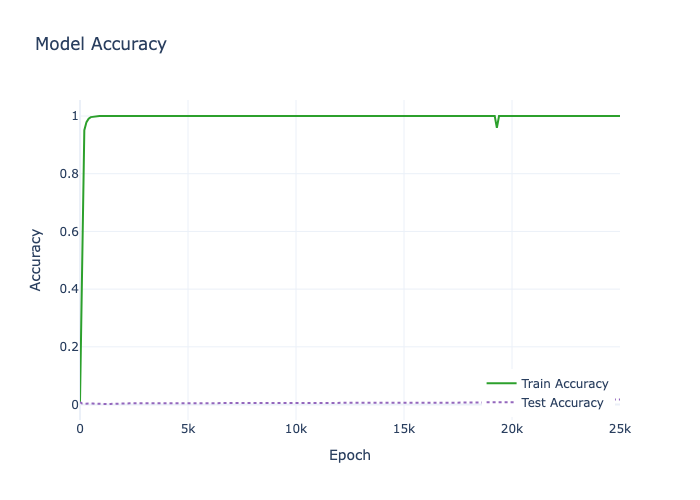
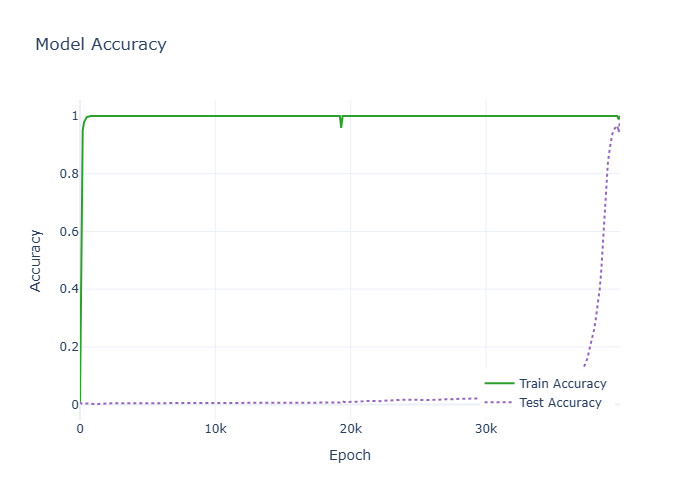
plot changes

diff --git a/generate_plots.py b/generate_plots.py
@@ -4,27 +4,23 @@ import math
 import pandas as pd
 import plotly.graph_objects as go
 
-path = "log_1776048947"
+path = "log_1775433451"
 
 def generatePlots(file: str, numEpochs=math.inf):
     data = []
     pattern = re.compile(r"Epoch (\d+): Loss -- Train: ([\d.]+) Test: ([\d.]+)    Accuracy -- Train: ([\d.]+) Test: ([\d.]+)")
     
-    try:
-        with open(file, 'r') as f:
-            for line in f:
-                match = pattern.search(line)
-                if match and int(match.group(1)) <= numEpochs:
-                    data.append({
-                        "Epoch": int(match.group(1)),
-                        "Train Loss": float(match.group(2)),
-                        "Test Loss": float(match.group(3)),
-                        "Train Accuracy": float(match.group(4)),
-                        "Test Accuracy": float(match.group(5))
-                    })
-    except FileNotFoundError:
-        print("File not found")
-        return
+    with open(file, 'r') as f:
+        for line in f:
+            match = pattern.search(line)
+            if match and int(match.group(1)) <= numEpochs:
+                data.append({
+                    "Epoch": int(match.group(1)),
+                    "Train Loss": float(match.group(2)),
+                    "Test Loss": float(match.group(3)),
+                    "Train Accuracy": float(match.group(4)),
+                    "Test Accuracy": float(match.group(5))
+                })
     
     df = pd.DataFrame(data)
     filename = os.path.basename(file)
@@ -65,4 +61,4 @@ def generatePlots(file: str, numEpochs=math.inf):
     acc_path = os.path.join(plots_path, f"{filename}_accuracy.png")
     accPlot.write_image(acc_path)
 
-generatePlots(path)
+generatePlots(path, numEpochs=10000)
